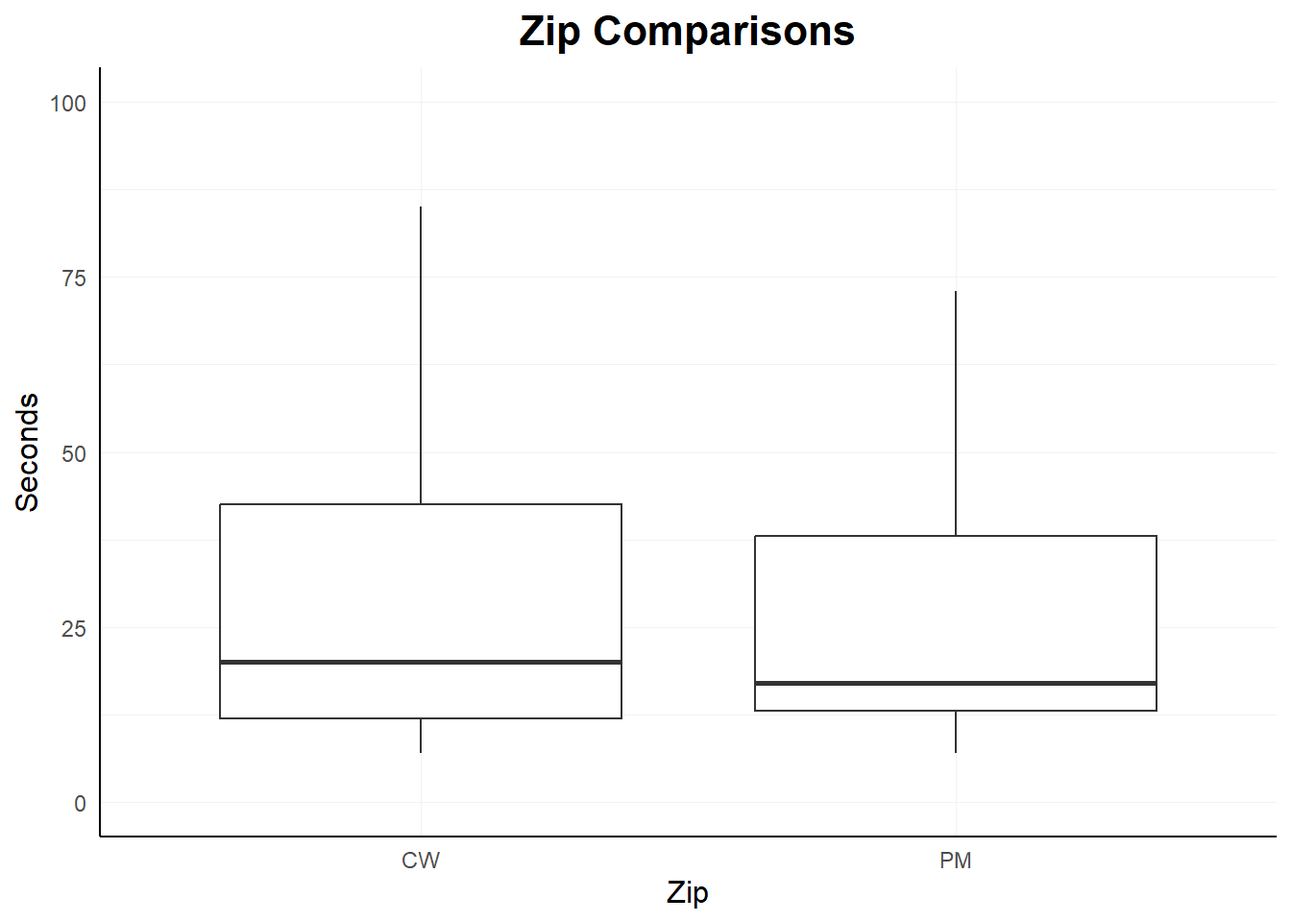
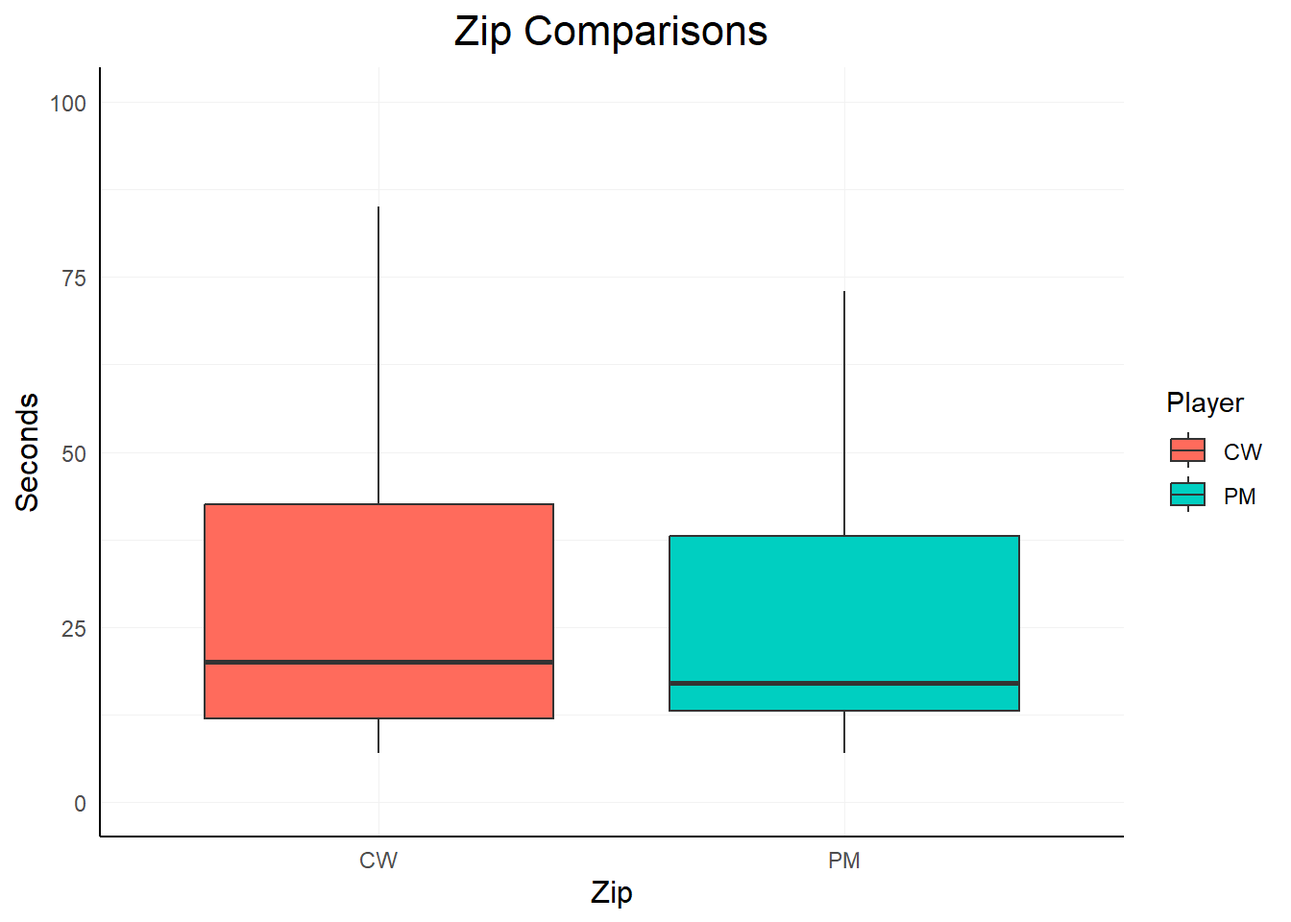
Linkedin project text updates

diff --git a/docs/projects/LinkedIn_games/Tango_analysis.html b/docs/projects/LinkedIn_games/Tango_analysis.html
@@ -221,7 +221,7 @@ pre > code.sourceCode > span > a:first-child::before { text-decoration: underlin
 
 
 <p>This is a personal project to create a live analysis pipeline that will show descriptive analysis of daily LinkedIn games records between <code>PM</code> and <code>CW</code>.</p>
-<p>This pipeline will serve to elucidate who is the better overall player in LinkedIn games (Tango, Zip, Pinpoint and Cross climb) to date; between players <code>PM</code> and <code>CW</code>. Beginning from April 29th till today, <strong>June 04, 2025</strong>, data will continually be updated manually in the raw .xlsx file and ran through the pipeline for analysis when rendered.</p>
+<p>This pipeline will serve to elucidate who is the better overall player in LinkedIn games (Tango, Zip, Pinpoint and Cross climb) to date; between players <code>PM</code> and <code>CW</code>. Beginning from April 29th till today, <strong>June 05, 2025</strong>, data will continually be updated manually in the raw .xlsx file and ran through the pipeline for analysis when rendered.</p>
 <p>In addition to summarizing means, medians, and visualizing score distributions over time, this document also employs Bayesian independent‐samples t‐tests for each game type to quantify the strength of evidence for performance differences between PM and CW. In each case, Bayes factors (BF<sub>10</sub>) is computed along with prior and posterior distributions plotted to illustrate how observed data update our beliefs about any effect (see <a href="#nte-impt" class="quarto-xref">Note&nbsp;1</a> below).</p>
 <p>This document aims to describe, visualize, and evaluate, using both descriptive statistics and Bayesian hypothesis tests, to assess the differences in scores between the two players.</p>
 <div class="cell">
@@ -409,7 +409,7 @@ pre > code.sourceCode > span > a:first-child::before { text-decoration: underlin
 </table>
 </div>
 </div>
-<p>As of April 29 2025 through June 04, 2025, for <strong>Tango</strong>:</p>
+<p>As of April 29 2025 through June 05, 2025, for <strong>Tango</strong>:</p>
 <ul>
 <li>PM’s average time is <strong>63.3</strong> seconds, with the median time being <strong>47</strong> seconds.</li>
 <li>CW’s average time is <strong>50.9</strong> seconds, with the median time being <strong>40</strong> seconds.</li>
@@ -558,20 +558,21 @@ pre > code.sourceCode > span > a:first-child::before { text-decoration: underlin
 <div class="cell">
 <details class="code-fold">
 <summary>Show the code</summary>
-<div class="sourceCode cell-code" id="cb9"><pre class="sourceCode r code-with-copy"><code class="sourceCode r"><span id="cb9-1"><a href="#cb9-1" aria-hidden="true" tabindex="-1"></a>Tango_box <span class="ot">&lt;-</span> <span class="fu">ggplot</span>(<span class="fu">subset</span>(dat_long, Game_type <span class="sc">==</span> <span class="st">"T"</span>), <span class="fu">aes</span>(<span class="at">x =</span> Player, <span class="at">y =</span> value)) <span class="sc">+</span></span>
+<div class="sourceCode cell-code" id="cb9"><pre class="sourceCode r code-with-copy"><code class="sourceCode r"><span id="cb9-1"><a href="#cb9-1" aria-hidden="true" tabindex="-1"></a>Tango_box <span class="ot">&lt;-</span> <span class="fu">ggplot</span>(<span class="fu">subset</span>(dat_long, Game_type <span class="sc">==</span> <span class="st">"T"</span>), <span class="fu">aes</span>(<span class="at">x =</span> Player, <span class="at">y =</span> value, <span class="at">fill =</span> Player)) <span class="sc">+</span></span>
 <span id="cb9-2"><a href="#cb9-2" aria-hidden="true" tabindex="-1"></a>              <span class="fu">geom_boxplot</span>() <span class="sc">+</span></span>
-<span id="cb9-3"><a href="#cb9-3" aria-hidden="true" tabindex="-1"></a>              <span class="fu">labs</span>(<span class="at">title =</span> <span class="st">"Tango Comparisons"</span>, <span class="at">x =</span> <span class="st">"Tango"</span>, <span class="at">y =</span> <span class="st">"Seconds"</span>) <span class="sc">+</span></span>
-<span id="cb9-4"><a href="#cb9-4" aria-hidden="true" tabindex="-1"></a>              <span class="fu">coord_cartesian</span>(<span class="at">ylim =</span> <span class="fu">c</span>(<span class="dv">0</span>, <span class="dv">100</span>)) <span class="sc">+</span></span>
-<span id="cb9-5"><a href="#cb9-5" aria-hidden="true" tabindex="-1"></a>              <span class="fu">theme_minimal</span>() <span class="sc">+</span></span>
-<span id="cb9-6"><a href="#cb9-6" aria-hidden="true" tabindex="-1"></a>              <span class="fu">theme</span>(</span>
-<span id="cb9-7"><a href="#cb9-7" aria-hidden="true" tabindex="-1"></a>                <span class="at">axis.line =</span> <span class="fu">element_line</span>(<span class="at">color =</span> <span class="st">"black"</span>), </span>
-<span id="cb9-8"><a href="#cb9-8" aria-hidden="true" tabindex="-1"></a>                <span class="at">plot.title =</span> <span class="fu">element_text</span>(<span class="at">hjust =</span> <span class="fl">0.5</span>, <span class="at">size =</span> <span class="dv">16</span>, <span class="at">face =</span> <span class="st">"bold"</span>), </span>
-<span id="cb9-9"><a href="#cb9-9" aria-hidden="true" tabindex="-1"></a>                <span class="at">axis.title =</span> <span class="fu">element_text</span>(<span class="at">size =</span> <span class="dv">12</span>),</span>
-<span id="cb9-10"><a href="#cb9-10" aria-hidden="true" tabindex="-1"></a>                <span class="at">panel.grid.major =</span> <span class="fu">element_line</span>(<span class="at">color =</span> <span class="st">"gray95"</span>, <span class="at">size =</span> <span class="fl">0.1</span>),</span>
-<span id="cb9-11"><a href="#cb9-11" aria-hidden="true" tabindex="-1"></a>                <span class="at">panel.grid.minor =</span> <span class="fu">element_line</span>(<span class="at">color =</span> <span class="st">"gray95"</span>, <span class="at">size =</span> <span class="fl">0.1</span>)</span>
-<span id="cb9-12"><a href="#cb9-12" aria-hidden="true" tabindex="-1"></a>              )</span>
-<span id="cb9-13"><a href="#cb9-13" aria-hidden="true" tabindex="-1"></a></span>
-<span id="cb9-14"><a href="#cb9-14" aria-hidden="true" tabindex="-1"></a>Tango_box</span></code><button title="Copy to Clipboard" class="code-copy-button"><i class="bi"></i></button></pre></div>
+<span id="cb9-3"><a href="#cb9-3" aria-hidden="true" tabindex="-1"></a>              <span class="fu">scale_fill_manual</span>(<span class="at">values =</span> <span class="fu">c</span>(<span class="st">"PM"</span> <span class="ot">=</span> <span class="st">"#00CFC1"</span>, <span class="st">"CW"</span> <span class="ot">=</span> <span class="st">"#FF6B5C"</span>)) <span class="sc">+</span></span>
+<span id="cb9-4"><a href="#cb9-4" aria-hidden="true" tabindex="-1"></a>              <span class="fu">labs</span>(<span class="at">title =</span> <span class="st">"Tango Comparisons"</span>, <span class="at">x =</span> <span class="st">"Tango"</span>, <span class="at">y =</span> <span class="st">"Seconds"</span>) <span class="sc">+</span></span>
+<span id="cb9-5"><a href="#cb9-5" aria-hidden="true" tabindex="-1"></a>              <span class="fu">coord_cartesian</span>(<span class="at">ylim =</span> <span class="fu">c</span>(<span class="dv">0</span>, <span class="dv">100</span>)) <span class="sc">+</span></span>
+<span id="cb9-6"><a href="#cb9-6" aria-hidden="true" tabindex="-1"></a>              <span class="fu">theme_minimal</span>() <span class="sc">+</span></span>
+<span id="cb9-7"><a href="#cb9-7" aria-hidden="true" tabindex="-1"></a>              <span class="fu">theme</span>(</span>
+<span id="cb9-8"><a href="#cb9-8" aria-hidden="true" tabindex="-1"></a>                <span class="at">axis.line =</span> <span class="fu">element_line</span>(<span class="at">color =</span> <span class="st">"black"</span>), </span>
+<span id="cb9-9"><a href="#cb9-9" aria-hidden="true" tabindex="-1"></a>                <span class="at">plot.title =</span> <span class="fu">element_text</span>(<span class="at">hjust =</span> <span class="fl">0.5</span>, <span class="at">size =</span> <span class="dv">16</span>), </span>
+<span id="cb9-10"><a href="#cb9-10" aria-hidden="true" tabindex="-1"></a>                <span class="at">axis.title =</span> <span class="fu">element_text</span>(<span class="at">size =</span> <span class="dv">12</span>),</span>
+<span id="cb9-11"><a href="#cb9-11" aria-hidden="true" tabindex="-1"></a>                <span class="at">panel.grid.major =</span> <span class="fu">element_line</span>(<span class="at">color =</span> <span class="st">"gray95"</span>, <span class="at">size =</span> <span class="fl">0.1</span>),</span>
+<span id="cb9-12"><a href="#cb9-12" aria-hidden="true" tabindex="-1"></a>                <span class="at">panel.grid.minor =</span> <span class="fu">element_line</span>(<span class="at">color =</span> <span class="st">"gray95"</span>, <span class="at">size =</span> <span class="fl">0.1</span>)</span>
+<span id="cb9-13"><a href="#cb9-13" aria-hidden="true" tabindex="-1"></a>              )</span>
+<span id="cb9-14"><a href="#cb9-14" aria-hidden="true" tabindex="-1"></a></span>
+<span id="cb9-15"><a href="#cb9-15" aria-hidden="true" tabindex="-1"></a>Tango_box</span></code><button title="Copy to Clipboard" class="code-copy-button"><i class="bi"></i></button></pre></div>
 </details>
 <div class="cell-output-display">
 <div>
@@ -586,20 +587,21 @@ pre > code.sourceCode > span > a:first-child::before { text-decoration: underlin
 <div class="cell">
 <details class="code-fold">
 <summary>Show the code</summary>
-<div class="sourceCode cell-code" id="cb10"><pre class="sourceCode r code-with-copy"><code class="sourceCode r"><span id="cb10-1"><a href="#cb10-1" aria-hidden="true" tabindex="-1"></a>Zip_box <span class="ot">&lt;-</span> <span class="fu">ggplot</span>(<span class="fu">subset</span>(dat_long, Game_type <span class="sc">==</span> <span class="st">"Z"</span>), <span class="fu">aes</span>(<span class="at">x =</span> Player, <span class="at">y =</span> value)) <span class="sc">+</span></span>
+<div class="sourceCode cell-code" id="cb10"><pre class="sourceCode r code-with-copy"><code class="sourceCode r"><span id="cb10-1"><a href="#cb10-1" aria-hidden="true" tabindex="-1"></a>Zip_box <span class="ot">&lt;-</span> <span class="fu">ggplot</span>(<span class="fu">subset</span>(dat_long, Game_type <span class="sc">==</span> <span class="st">"Z"</span>), <span class="fu">aes</span>(<span class="at">x =</span> Player, <span class="at">y =</span> value, <span class="at">fill =</span> Player)) <span class="sc">+</span></span>
 <span id="cb10-2"><a href="#cb10-2" aria-hidden="true" tabindex="-1"></a>            <span class="fu">geom_boxplot</span>() <span class="sc">+</span></span>
-<span id="cb10-3"><a href="#cb10-3" aria-hidden="true" tabindex="-1"></a>            <span class="fu">labs</span>(<span class="at">title =</span> <span class="st">"Zip Comparisons"</span>, <span class="at">x =</span> <span class="st">"Zip"</span>, <span class="at">y =</span> <span class="st">"Seconds"</span>) <span class="sc">+</span></span>
-<span id="cb10-4"><a href="#cb10-4" aria-hidden="true" tabindex="-1"></a>            <span class="fu">coord_cartesian</span>(<span class="at">ylim =</span> <span class="fu">c</span>(<span class="dv">0</span>, <span class="dv">100</span>)) <span class="sc">+</span></span>
-<span id="cb10-5"><a href="#cb10-5" aria-hidden="true" tabindex="-1"></a>            <span class="fu">theme_minimal</span>() <span class="sc">+</span></span>
-<span id="cb10-6"><a href="#cb10-6" aria-hidden="true" tabindex="-1"></a>            <span class="fu">theme</span>(</span>
-<span id="cb10-7"><a href="#cb10-7" aria-hidden="true" tabindex="-1"></a>              <span class="at">axis.line =</span> <span class="fu">element_line</span>(<span class="at">color =</span> <span class="st">"black"</span>), </span>
-<span id="cb10-8"><a href="#cb10-8" aria-hidden="true" tabindex="-1"></a>              <span class="at">plot.title =</span> <span class="fu">element_text</span>(<span class="at">hjust =</span> <span class="fl">0.5</span>, <span class="at">size =</span> <span class="dv">16</span>, <span class="at">face =</span> <span class="st">"bold"</span>), </span>
-<span id="cb10-9"><a href="#cb10-9" aria-hidden="true" tabindex="-1"></a>              <span class="at">axis.title =</span> <span class="fu">element_text</span>(<span class="at">size =</span> <span class="dv">12</span>),</span>
-<span id="cb10-10"><a href="#cb10-10" aria-hidden="true" tabindex="-1"></a>              <span class="at">panel.grid.major =</span> <span class="fu">element_line</span>(<span class="at">color =</span> <span class="st">"gray95"</span>, <span class="at">size =</span> <span class="fl">0.1</span>),</span>
-<span id="cb10-11"><a href="#cb10-11" aria-hidden="true" tabindex="-1"></a>              <span class="at">panel.grid.minor =</span> <span class="fu">element_line</span>(<span class="at">color =</span> <span class="st">"gray95"</span>, <span class="at">size =</span> <span class="fl">0.1</span>)</span>
-<span id="cb10-12"><a href="#cb10-12" aria-hidden="true" tabindex="-1"></a>            )</span>
-<span id="cb10-13"><a href="#cb10-13" aria-hidden="true" tabindex="-1"></a></span>
-<span id="cb10-14"><a href="#cb10-14" aria-hidden="true" tabindex="-1"></a>Zip_box</span></code><button title="Copy to Clipboard" class="code-copy-button"><i class="bi"></i></button></pre></div>
+<span id="cb10-3"><a href="#cb10-3" aria-hidden="true" tabindex="-1"></a>            <span class="fu">scale_fill_manual</span>(<span class="at">values =</span> <span class="fu">c</span>(<span class="st">"PM"</span> <span class="ot">=</span> <span class="st">"#00CFC1"</span>, <span class="st">"CW"</span> <span class="ot">=</span> <span class="st">"#FF6B5C"</span>)) <span class="sc">+</span></span>
+<span id="cb10-4"><a href="#cb10-4" aria-hidden="true" tabindex="-1"></a>            <span class="fu">labs</span>(<span class="at">title =</span> <span class="st">"Zip Comparisons"</span>, <span class="at">x =</span> <span class="st">"Zip"</span>, <span class="at">y =</span> <span class="st">"Seconds"</span>) <span class="sc">+</span></span>
+<span id="cb10-5"><a href="#cb10-5" aria-hidden="true" tabindex="-1"></a>            <span class="fu">coord_cartesian</span>(<span class="at">ylim =</span> <span class="fu">c</span>(<span class="dv">0</span>, <span class="dv">100</span>)) <span class="sc">+</span></span>
+<span id="cb10-6"><a href="#cb10-6" aria-hidden="true" tabindex="-1"></a>            <span class="fu">theme_minimal</span>() <span class="sc">+</span></span>
+<span id="cb10-7"><a href="#cb10-7" aria-hidden="true" tabindex="-1"></a>            <span class="fu">theme</span>(</span>
+<span id="cb10-8"><a href="#cb10-8" aria-hidden="true" tabindex="-1"></a>              <span class="at">axis.line =</span> <span class="fu">element_line</span>(<span class="at">color =</span> <span class="st">"black"</span>), </span>
+<span id="cb10-9"><a href="#cb10-9" aria-hidden="true" tabindex="-1"></a>              <span class="at">plot.title =</span> <span class="fu">element_text</span>(<span class="at">hjust =</span> <span class="fl">0.5</span>, <span class="at">size =</span> <span class="dv">16</span>), </span>
+<span id="cb10-10"><a href="#cb10-10" aria-hidden="true" tabindex="-1"></a>              <span class="at">axis.title =</span> <span class="fu">element_text</span>(<span class="at">size =</span> <span class="dv">12</span>),</span>
+<span id="cb10-11"><a href="#cb10-11" aria-hidden="true" tabindex="-1"></a>              <span class="at">panel.grid.major =</span> <span class="fu">element_line</span>(<span class="at">color =</span> <span class="st">"gray95"</span>, <span class="at">size =</span> <span class="fl">0.1</span>),</span>
+<span id="cb10-12"><a href="#cb10-12" aria-hidden="true" tabindex="-1"></a>              <span class="at">panel.grid.minor =</span> <span class="fu">element_line</span>(<span class="at">color =</span> <span class="st">"gray95"</span>, <span class="at">size =</span> <span class="fl">0.1</span>)</span>
+<span id="cb10-13"><a href="#cb10-13" aria-hidden="true" tabindex="-1"></a>            )</span>
+<span id="cb10-14"><a href="#cb10-14" aria-hidden="true" tabindex="-1"></a></span>
+<span id="cb10-15"><a href="#cb10-15" aria-hidden="true" tabindex="-1"></a>Zip_box</span></code><button title="Copy to Clipboard" class="code-copy-button"><i class="bi"></i></button></pre></div>
 </details>
 <div class="cell-output-display">
 <div>
@@ -614,20 +616,21 @@ pre > code.sourceCode > span > a:first-child::before { text-decoration: underlin
 <div class="cell">
 <details class="code-fold">
 <summary>Show the code</summary>
-<div class="sourceCode cell-code" id="cb11"><pre class="sourceCode r code-with-copy"><code class="sourceCode r"><span id="cb11-1"><a href="#cb11-1" aria-hidden="true" tabindex="-1"></a>Pinpoint_box <span class="ot">&lt;-</span> <span class="fu">ggplot</span>(<span class="fu">subset</span>(dat_long, Game_type <span class="sc">==</span> <span class="st">"P"</span>), <span class="fu">aes</span>(<span class="at">x =</span> Player, <span class="at">y =</span> value)) <span class="sc">+</span></span>
+<div class="sourceCode cell-code" id="cb11"><pre class="sourceCode r code-with-copy"><code class="sourceCode r"><span id="cb11-1"><a href="#cb11-1" aria-hidden="true" tabindex="-1"></a>Pinpoint_box <span class="ot">&lt;-</span> <span class="fu">ggplot</span>(<span class="fu">subset</span>(dat_long, Game_type <span class="sc">==</span> <span class="st">"P"</span>), <span class="fu">aes</span>(<span class="at">x =</span> Player, <span class="at">y =</span> value, <span class="at">fill =</span> Player)) <span class="sc">+</span></span>
 <span id="cb11-2"><a href="#cb11-2" aria-hidden="true" tabindex="-1"></a>                  <span class="fu">geom_boxplot</span>() <span class="sc">+</span></span>
-<span id="cb11-3"><a href="#cb11-3" aria-hidden="true" tabindex="-1"></a>                  <span class="fu">labs</span>(<span class="at">title =</span> <span class="st">"Pinpoint Comparisons"</span>, <span class="at">x =</span> <span class="st">"Pinpoint"</span>, <span class="at">y =</span> <span class="st">"Tries"</span>) <span class="sc">+</span></span>
-<span id="cb11-4"><a href="#cb11-4" aria-hidden="true" tabindex="-1"></a>                  <span class="fu">coord_cartesian</span>(<span class="at">ylim =</span> <span class="fu">c</span>(<span class="dv">0</span>, <span class="dv">6</span>)) <span class="sc">+</span></span>
-<span id="cb11-5"><a href="#cb11-5" aria-hidden="true" tabindex="-1"></a>                  <span class="fu">theme_minimal</span>() <span class="sc">+</span></span>
-<span id="cb11-6"><a href="#cb11-6" aria-hidden="true" tabindex="-1"></a>                  <span class="fu">theme</span>(</span>
-<span id="cb11-7"><a href="#cb11-7" aria-hidden="true" tabindex="-1"></a>                    <span class="at">axis.line =</span> <span class="fu">element_line</span>(<span class="at">color =</span> <span class="st">"black"</span>), </span>
-<span id="cb11-8"><a href="#cb11-8" aria-hidden="true" tabindex="-1"></a>                    <span class="at">plot.title =</span> <span class="fu">element_text</span>(<span class="at">hjust =</span> <span class="fl">0.5</span>, <span class="at">size =</span> <span class="dv">16</span>, <span class="at">face =</span> <span class="st">"bold"</span>), </span>
-<span id="cb11-9"><a href="#cb11-9" aria-hidden="true" tabindex="-1"></a>                    <span class="at">axis.title =</span> <span class="fu">element_text</span>(<span class="at">size =</span> <span class="dv">12</span>),</span>
-<span id="cb11-10"><a href="#cb11-10" aria-hidden="true" tabindex="-1"></a>                    <span class="at">panel.grid.major =</span> <span class="fu">element_line</span>(<span class="at">color =</span> <span class="st">"gray95"</span>, <span class="at">size =</span> <span class="fl">0.1</span>),</span>
-<span id="cb11-11"><a href="#cb11-11" aria-hidden="true" tabindex="-1"></a>                    <span class="at">panel.grid.minor =</span> <span class="fu">element_line</span>(<span class="at">color =</span> <span class="st">"gray95"</span>, <span class="at">size =</span> <span class="fl">0.1</span>)</span>
-<span id="cb11-12"><a href="#cb11-12" aria-hidden="true" tabindex="-1"></a>                  )</span>
-<span id="cb11-13"><a href="#cb11-13" aria-hidden="true" tabindex="-1"></a></span>
-<span id="cb11-14"><a href="#cb11-14" aria-hidden="true" tabindex="-1"></a>Pinpoint_box</span></code><button title="Copy to Clipboard" class="code-copy-button"><i class="bi"></i></button></pre></div>
+<span id="cb11-3"><a href="#cb11-3" aria-hidden="true" tabindex="-1"></a>                  <span class="fu">scale_fill_manual</span>(<span class="at">values =</span> <span class="fu">c</span>(<span class="st">"PM"</span> <span class="ot">=</span> <span class="st">"#00CFC1"</span>, <span class="st">"CW"</span> <span class="ot">=</span> <span class="st">"#FF6B5C"</span>)) <span class="sc">+</span></span>
+<span id="cb11-4"><a href="#cb11-4" aria-hidden="true" tabindex="-1"></a>                  <span class="fu">labs</span>(<span class="at">title =</span> <span class="st">"Pinpoint Comparisons"</span>, <span class="at">x =</span> <span class="st">"Pinpoint"</span>, <span class="at">y =</span> <span class="st">"Tries"</span>) <span class="sc">+</span></span>
+<span id="cb11-5"><a href="#cb11-5" aria-hidden="true" tabindex="-1"></a>                  <span class="fu">coord_cartesian</span>(<span class="at">ylim =</span> <span class="fu">c</span>(<span class="dv">0</span>, <span class="dv">6</span>)) <span class="sc">+</span></span>
+<span id="cb11-6"><a href="#cb11-6" aria-hidden="true" tabindex="-1"></a>                  <span class="fu">theme_minimal</span>() <span class="sc">+</span></span>
+<span id="cb11-7"><a href="#cb11-7" aria-hidden="true" tabindex="-1"></a>                  <span class="fu">theme</span>(</span>
+<span id="cb11-8"><a href="#cb11-8" aria-hidden="true" tabindex="-1"></a>                    <span class="at">axis.line =</span> <span class="fu">element_line</span>(<span class="at">color =</span> <span class="st">"black"</span>), </span>
+<span id="cb11-9"><a href="#cb11-9" aria-hidden="true" tabindex="-1"></a>                    <span class="at">plot.title =</span> <span class="fu">element_text</span>(<span class="at">hjust =</span> <span class="fl">0.5</span>, <span class="at">size =</span> <span class="dv">16</span>), </span>
+<span id="cb11-10"><a href="#cb11-10" aria-hidden="true" tabindex="-1"></a>                    <span class="at">axis.title =</span> <span class="fu">element_text</span>(<span class="at">size =</span> <span class="dv">12</span>),</span>
+<span id="cb11-11"><a href="#cb11-11" aria-hidden="true" tabindex="-1"></a>                    <span class="at">panel.grid.major =</span> <span class="fu">element_line</span>(<span class="at">color =</span> <span class="st">"gray95"</span>, <span class="at">size =</span> <span class="fl">0.1</span>),</span>
+<span id="cb11-12"><a href="#cb11-12" aria-hidden="true" tabindex="-1"></a>                    <span class="at">panel.grid.minor =</span> <span class="fu">element_line</span>(<span class="at">color =</span> <span class="st">"gray95"</span>, <span class="at">size =</span> <span class="fl">0.1</span>)</span>
+<span id="cb11-13"><a href="#cb11-13" aria-hidden="true" tabindex="-1"></a>                  )</span>
+<span id="cb11-14"><a href="#cb11-14" aria-hidden="true" tabindex="-1"></a></span>
+<span id="cb11-15"><a href="#cb11-15" aria-hidden="true" tabindex="-1"></a>Pinpoint_box</span></code><button title="Copy to Clipboard" class="code-copy-button"><i class="bi"></i></button></pre></div>
 </details>
 <div class="cell-output-display">
 <div>
@@ -642,20 +645,21 @@ pre > code.sourceCode > span > a:first-child::before { text-decoration: underlin
 <div class="cell">
 <details class="code-fold">
 <summary>Show the code</summary>
-<div class="sourceCode cell-code" id="cb12"><pre class="sourceCode r code-with-copy"><code class="sourceCode r"><span id="cb12-1"><a href="#cb12-1" aria-hidden="true" tabindex="-1"></a>Crossclimb_box <span class="ot">&lt;-</span> <span class="fu">ggplot</span>(<span class="fu">subset</span>(dat_long, Game_type <span class="sc">==</span> <span class="st">"C"</span>), <span class="fu">aes</span>(<span class="at">x =</span> Player, <span class="at">y =</span> value)) <span class="sc">+</span></span>
+<div class="sourceCode cell-code" id="cb12"><pre class="sourceCode r code-with-copy"><code class="sourceCode r"><span id="cb12-1"><a href="#cb12-1" aria-hidden="true" tabindex="-1"></a>Crossclimb_box <span class="ot">&lt;-</span> <span class="fu">ggplot</span>(<span class="fu">subset</span>(dat_long, Game_type <span class="sc">==</span> <span class="st">"C"</span>), <span class="fu">aes</span>(<span class="at">x =</span> Player, <span class="at">y =</span> value, <span class="at">fill =</span> Player)) <span class="sc">+</span></span>
 <span id="cb12-2"><a href="#cb12-2" aria-hidden="true" tabindex="-1"></a>                    <span class="fu">geom_boxplot</span>() <span class="sc">+</span></span>
-<span id="cb12-3"><a href="#cb12-3" aria-hidden="true" tabindex="-1"></a>                    <span class="fu">labs</span>(<span class="at">title =</span> <span class="st">"Crossclimb Comparisons"</span>, <span class="at">x =</span> <span class="st">"Crossclimb"</span>, <span class="at">y =</span> <span class="st">"Seconds"</span>) <span class="sc">+</span></span>
-<span id="cb12-4"><a href="#cb12-4" aria-hidden="true" tabindex="-1"></a>                    <span class="fu">coord_cartesian</span>(<span class="at">ylim =</span> <span class="fu">c</span>(<span class="dv">0</span>, <span class="dv">100</span>)) <span class="sc">+</span></span>
-<span id="cb12-5"><a href="#cb12-5" aria-hidden="true" tabindex="-1"></a>                    <span class="fu">theme_minimal</span>() <span class="sc">+</span></span>
-<span id="cb12-6"><a href="#cb12-6" aria-hidden="true" tabindex="-1"></a>                    <span class="fu">theme</span>(</span>
-<span id="cb12-7"><a href="#cb12-7" aria-hidden="true" tabindex="-1"></a>                      <span class="at">axis.line =</span> <span class="fu">element_line</span>(<span class="at">color =</span> <span class="st">"black"</span>), </span>
-<span id="cb12-8"><a href="#cb12-8" aria-hidden="true" tabindex="-1"></a>                      <span class="at">plot.title =</span> <span class="fu">element_text</span>(<span class="at">hjust =</span> <span class="fl">0.5</span>, <span class="at">size =</span> <span class="dv">16</span>, <span class="at">face =</span> <span class="st">"bold"</span>), </span>
-<span id="cb12-9"><a href="#cb12-9" aria-hidden="true" tabindex="-1"></a>                      <span class="at">axis.title =</span> <span class="fu">element_text</span>(<span class="at">size =</span> <span class="dv">12</span>),</span>
-<span id="cb12-10"><a href="#cb12-10" aria-hidden="true" tabindex="-1"></a>                      <span class="at">panel.grid.major =</span> <span class="fu">element_line</span>(<span class="at">color =</span> <span class="st">"gray95"</span>, <span class="at">size =</span> <span class="fl">0.1</span>),</span>
-<span id="cb12-11"><a href="#cb12-11" aria-hidden="true" tabindex="-1"></a>                      <span class="at">panel.grid.minor =</span> <span class="fu">element_line</span>(<span class="at">color =</span> <span class="st">"gray95"</span>, <span class="at">size =</span> <span class="fl">0.1</span>)</span>
-<span id="cb12-12"><a href="#cb12-12" aria-hidden="true" tabindex="-1"></a>                    )</span>
-<span id="cb12-13"><a href="#cb12-13" aria-hidden="true" tabindex="-1"></a></span>
-<span id="cb12-14"><a href="#cb12-14" aria-hidden="true" tabindex="-1"></a>Crossclimb_box</span></code><button title="Copy to Clipboard" class="code-copy-button"><i class="bi"></i></button></pre></div>
+<span id="cb12-3"><a href="#cb12-3" aria-hidden="true" tabindex="-1"></a>                    <span class="fu">scale_fill_manual</span>(<span class="at">values =</span> <span class="fu">c</span>(<span class="st">"PM"</span> <span class="ot">=</span> <span class="st">"#00CFC1"</span>, <span class="st">"CW"</span> <span class="ot">=</span> <span class="st">"#FF6B5C"</span>)) <span class="sc">+</span></span>
+<span id="cb12-4"><a href="#cb12-4" aria-hidden="true" tabindex="-1"></a>                    <span class="fu">labs</span>(<span class="at">title =</span> <span class="st">"Crossclimb Comparisons"</span>, <span class="at">x =</span> <span class="st">"Crossclimb"</span>, <span class="at">y =</span> <span class="st">"Seconds"</span>) <span class="sc">+</span></span>
+<span id="cb12-5"><a href="#cb12-5" aria-hidden="true" tabindex="-1"></a>                    <span class="fu">coord_cartesian</span>(<span class="at">ylim =</span> <span class="fu">c</span>(<span class="dv">0</span>, <span class="dv">100</span>)) <span class="sc">+</span></span>
+<span id="cb12-6"><a href="#cb12-6" aria-hidden="true" tabindex="-1"></a>                    <span class="fu">theme_minimal</span>() <span class="sc">+</span></span>
+<span id="cb12-7"><a href="#cb12-7" aria-hidden="true" tabindex="-1"></a>                    <span class="fu">theme</span>(</span>
+<span id="cb12-8"><a href="#cb12-8" aria-hidden="true" tabindex="-1"></a>                      <span class="at">axis.line =</span> <span class="fu">element_line</span>(<span class="at">color =</span> <span class="st">"black"</span>), </span>
+<span id="cb12-9"><a href="#cb12-9" aria-hidden="true" tabindex="-1"></a>                      <span class="at">plot.title =</span> <span class="fu">element_text</span>(<span class="at">hjust =</span> <span class="fl">0.5</span>, <span class="at">size =</span> <span class="dv">16</span>), </span>
+<span id="cb12-10"><a href="#cb12-10" aria-hidden="true" tabindex="-1"></a>                      <span class="at">axis.title =</span> <span class="fu">element_text</span>(<span class="at">size =</span> <span class="dv">12</span>),</span>
+<span id="cb12-11"><a href="#cb12-11" aria-hidden="true" tabindex="-1"></a>                      <span class="at">panel.grid.major =</span> <span class="fu">element_line</span>(<span class="at">color =</span> <span class="st">"gray95"</span>, <span class="at">size =</span> <span class="fl">0.1</span>),</span>
+<span id="cb12-12"><a href="#cb12-12" aria-hidden="true" tabindex="-1"></a>                      <span class="at">panel.grid.minor =</span> <span class="fu">element_line</span>(<span class="at">color =</span> <span class="st">"gray95"</span>, <span class="at">size =</span> <span class="fl">0.1</span>)</span>
+<span id="cb12-13"><a href="#cb12-13" aria-hidden="true" tabindex="-1"></a>                    )</span>
+<span id="cb12-14"><a href="#cb12-14" aria-hidden="true" tabindex="-1"></a></span>
+<span id="cb12-15"><a href="#cb12-15" aria-hidden="true" tabindex="-1"></a>Crossclimb_box</span></code><button title="Copy to Clipboard" class="code-copy-button"><i class="bi"></i></button></pre></div>
 </details>
 <div class="cell-output-display">
 <div>
@@ -693,7 +697,7 @@ Note&nbsp;1: IMPORTANT NOTE
 </div>
 <section id="homogenity-of-variance-assumptions" class="level2">
 <h2 class="anchored" data-anchor-id="homogenity-of-variance-assumptions">Homogenity of Variance Assumptions</h2>
-<p>Runs Levene’s test as a check of homogenity of variance for each game type subsets.</p>
+<p>Runs Levene’s test as a check of homogenity of variance for each game type subsets. Although Bayesian t‐tests are typically robust to mild heterogeneity of variance, it remains good practice to understand whether this assumption might be violated.</p>
 <div class="tabset-margin-container"></div><div class="panel-tabset">
 <ul class="nav nav-tabs" role="tablist"><li class="nav-item" role="presentation"><a class="nav-link active" id="tabset-3-1-tab" data-bs-toggle="tab" data-bs-target="#tabset-3-1" role="tab" aria-controls="tabset-3-1" aria-selected="true">Tango</a></li><li class="nav-item" role="presentation"><a class="nav-link" id="tabset-3-2-tab" data-bs-toggle="tab" data-bs-target="#tabset-3-2" role="tab" aria-controls="tabset-3-2" aria-selected="false">Zip</a></li><li class="nav-item" role="presentation"><a class="nav-link" id="tabset-3-3-tab" data-bs-toggle="tab" data-bs-target="#tabset-3-3" role="tab" aria-controls="tabset-3-3" aria-selected="false">Pinpoint</a></li><li class="nav-item" role="presentation"><a class="nav-link" id="tabset-3-4-tab" data-bs-toggle="tab" data-bs-target="#tabset-3-4" role="tab" aria-controls="tabset-3-4" aria-selected="false">Crossclimb</a></li></ul>
 <div class="tab-content">

diff --git a/docs/projects/index.html b/docs/projects/index.html
@@ -256,7 +256,7 @@ window.Quarto = {
 <p>It is convenient to use <code>id</code> to link to multiple folders.</p>
 <div id="listing-ehr" class="quarto-listing quarto-listing-container-grid">
 <div class="list grid quarto-listing-cols-3">
-<div class="g-col-1" data-index="0" data-categories="Y29kZSUyQ2FuYWx5c2lzJTJDYmF5ZXNpYW4=" data-listing-date-sort="1748732400000" data-listing-file-modified-sort="1749077431164" data-listing-date-modified-sort="NaN" data-listing-reading-time-sort="26" data-listing-word-count-sort="5174">
+<div class="g-col-1" data-index="0" data-categories="Y29kZSUyQ2FuYWx5c2lzJTJDYmF5ZXNpYW4=" data-listing-date-sort="1748732400000" data-listing-file-modified-sort="1749078050937" data-listing-date-modified-sort="NaN" data-listing-reading-time-sort="27" data-listing-word-count-sort="5293">
 <a href="../projects/LinkedIn_games/Tango_analysis.html" class="quarto-grid-link">
 <div class="quarto-grid-item card h-100 card-left borderless">
 <p class="card-img-top"><img src="LinkedIn_games\Tango_analysis_files\figure-html\t-ts-1.png" style="height: 150px;"  class="thumbnail-image card-img"/></p>
